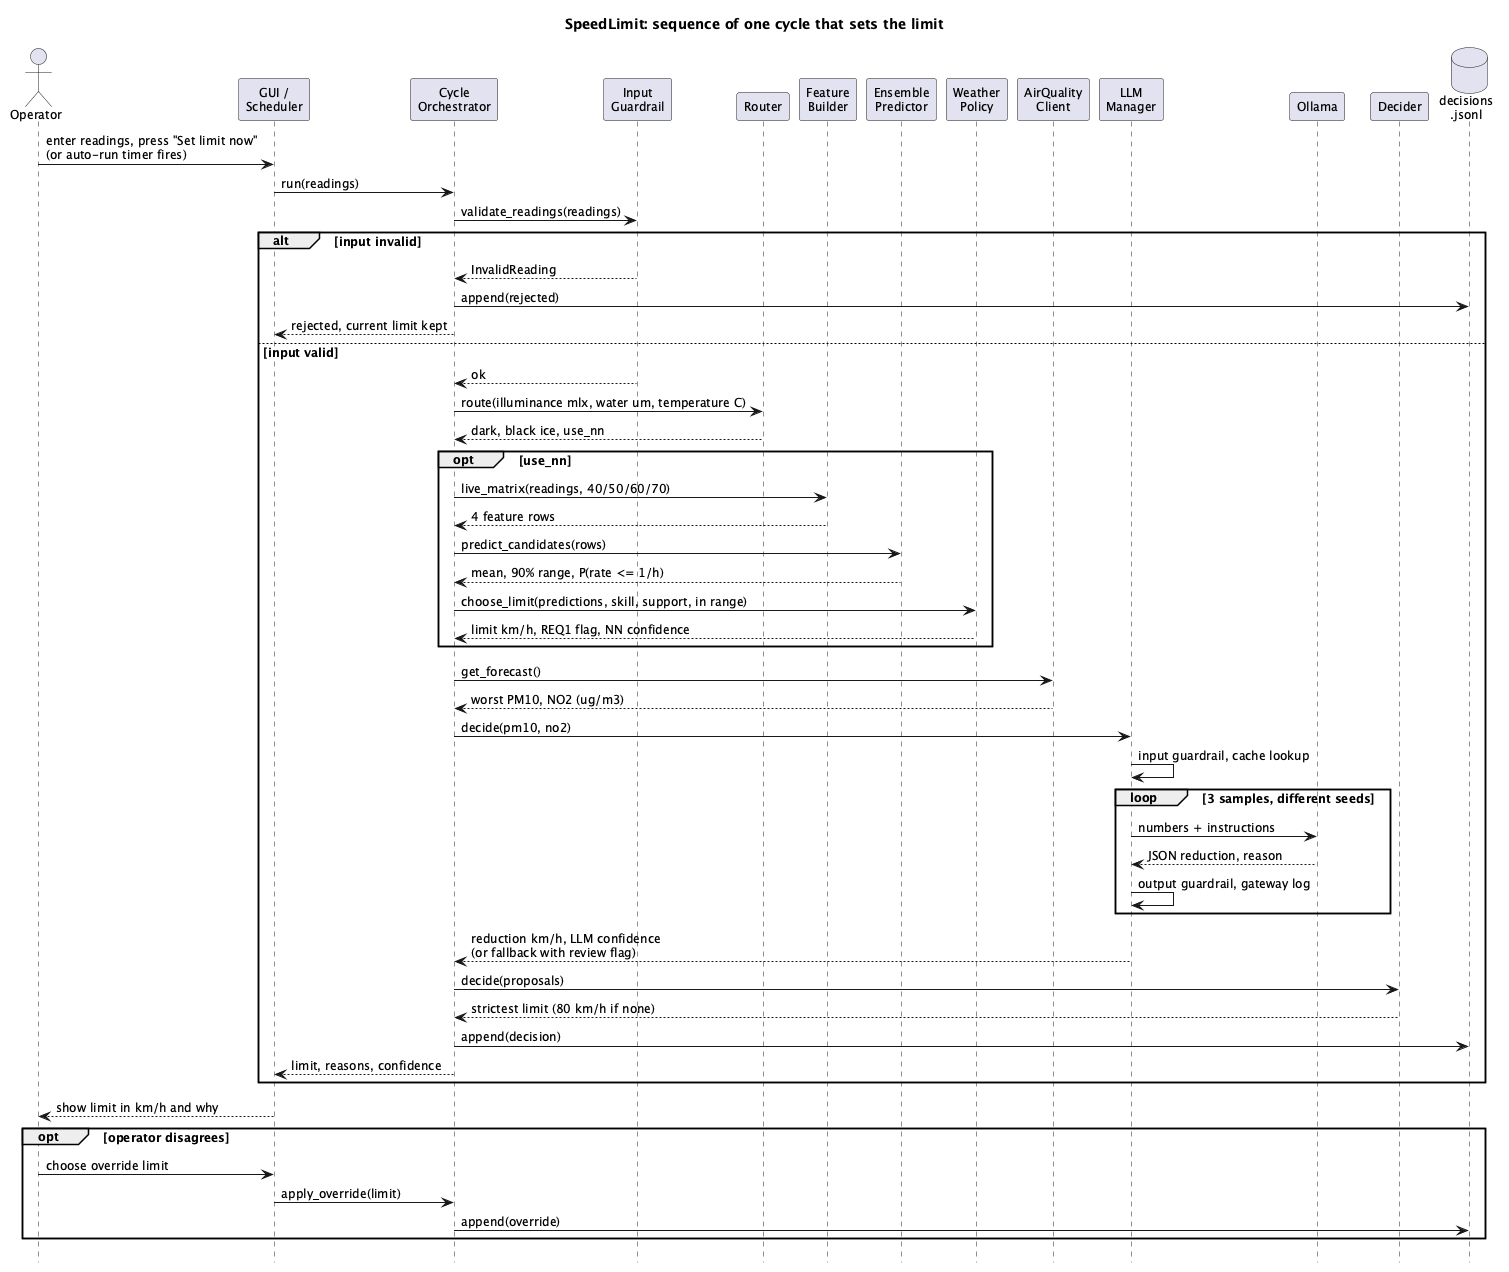
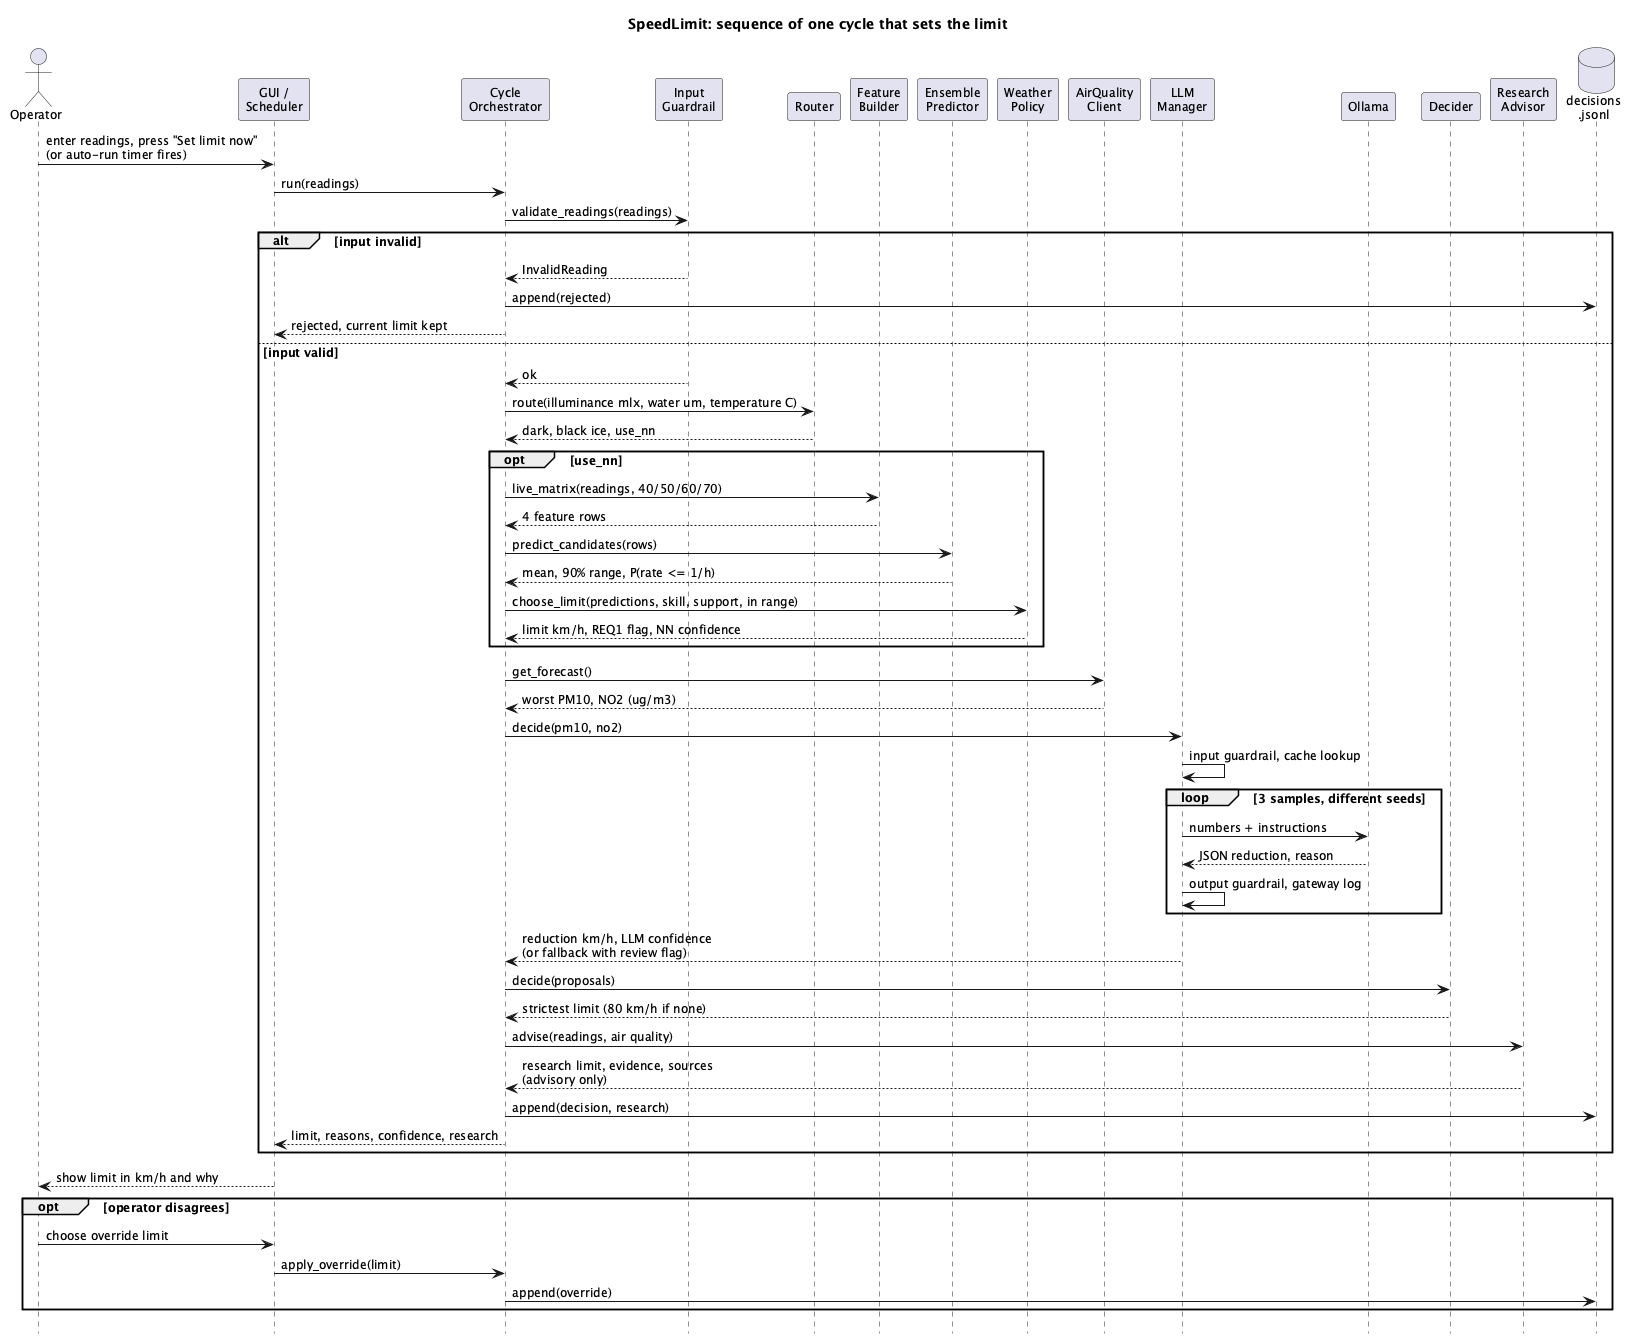
Show research panel tables cleanly and document the advisor
Two compact tables that fit beside the decision, the advisor added to the
data-flow, process and sequence diagrams, and its rules, evidence levels and
limits explained in ARCHITECTURE, HOW_TO_USE and CLAUDE.md.

diff --git a/app.py b/app.py
@@ -135,7 +135,7 @@ def show_result(result):
 
 
 def _pct(central, low, high) -> str:
-    return f"{central:+.1f} ({low:+.1f} to {high:+.1f})" if central else "0"
+    return f"{central:+.0f} ({low:+.0f} to {high:+.0f})" if central else "0"
 
 
 def show_research(result):
@@ -152,15 +152,20 @@ def show_research(result):
     show_confidence("Crash-effect evidence", advice.crash_evidence)
     if advice.air_evidence:
         show_confidence("Air-quality evidence", advice.air_evidence)
-    st.dataframe(pd.DataFrame([{
+    st.markdown(f"**Stopping within {advice.available_distance_m:g} m**")
+    st.table(pd.DataFrame([{
         "Limit (km/h)": c.limit_kmh,
-        "Stopping distance (m)": round(c.stopping_m, 1),
+        "Stopping distance (m)": f"{c.stopping_m:.1f}",
         "Stops in time": "yes" if c.fits else "no",
-        "Mean speed change (km/h)": round(c.mean_speed_change_kmh, 1),
+    } for c in advice.candidates]))
+    st.markdown("**Expected change against 80 km/h**")
+    st.table(pd.DataFrame([{
+        "Limit (km/h)": c.limit_kmh,
+        "Mean speed (km/h)": f"{c.mean_speed_change_kmh:+.1f}",
         "Injury crashes (%)": _pct(c.injury_pct, c.injury_low_pct, c.injury_high_pct),
         "Deaths (%)": _pct(c.killed_pct, c.killed_low_pct, c.killed_high_pct),
-    } for c in advice.candidates]), hide_index=True)
-    st.caption("Crash columns: change against 80 km/h, typical value with the published range.")
+    } for c in advice.candidates]))
+    st.caption("Typical value, with the published range in brackets. A calculation, not a measurement on this road.")
     for caveat in advice.caveats:
         st.caption(caveat)
     with st.expander("Sources"):

diff --git a/tests/test_app.py b/tests/test_app.py
@@ -142,9 +142,11 @@ def test_research_table_has_units(tmp_path):
     at = launch(tmp_path)
     set_day(at)
     press(at)
-    columns = " ".join(" ".join(map(str, frame.value.columns)) for frame in at.dataframe)
+    tables = [table.value for table in at.table]
+    columns = " ".join(" ".join(map(str, t.columns)) for t in tables)
     assert "Stopping distance (m)" in columns
     assert "Injury crashes (%)" in columns
+    assert "Limit (km/h)" in columns
 
 
 def test_research_panel_waits_for_a_decision(tmp_path):

diff --git a/docs/ARCHITECTURE.md b/docs/ARCHITECTURE.md
@@ -96,6 +96,7 @@ Accidents have no link to sensors. They are joined by day and hour only, which i
 | Candidates 40 to 70 km/h | 80 km/h never occurs in dark or black-ice hours, so asking about it would be pure extrapolation |
 | PyTorch | The network, the loss and the training loop are explicit and can be explained line by line |
 | Streamlit | The GUI is short Python, which suits an MVP. It is bound to localhost |
+| Research as explicit cited formulas | Outside knowledge stays visible, checkable and separate from what the system learned (section 10) |
 | Local Ollama (`qwen3:8b`) | Already installed, free, no account, and no data leaves the machine |
 | Open-Meteo | The assignment requires an API. It needs no account, and only fixed Vienna coordinates are sent |
 | Guardrails around both AI parts | The lecture is clear that AI output cannot go straight to the user. Output must be one of a small set of legal values |
@@ -174,6 +175,7 @@ The control experiment in `tests/test_model.py` shows that the same pipeline lea
 | Data fit for use | DataCleaner, DataValidator | `test_data.py`, `test_validation.py` |
 | Regular operation | CycleOrchestrator, GUI | `test_cycle.py`, `test_app.py` |
 | Confidence shown | ConfidenceRater, WeatherPolicy, LLMManager | `test_confidence.py`, `test_cycle.py` |
+| Research shown beside the decision | ResearchAdvisor | `test_research_advisor.py`, `test_cycle.py`, `test_app.py` |
 | Retraining decision | RetrainingAnalysis | `test_retraining.py` |
 | Allowed-to-use | All | `test_architecture.py` |
 
@@ -194,6 +196,41 @@ The control experiment in `tests/test_model.py` shows that the same pipeline lea
 | Some temperature sensors return Fahrenheit | Sensor mapping in `config.py` and a conversion in `data.py`; retrain if the training data changes | Only the cleaner knows raw units. Everything after it sees °C |
 | Only skidding counts as a near-accident | Call the labeler with `kinds=("SkidAngle",)`, then validate and retrain | The label definition is in one place |
 | Electric cars are exempt from air-quality limits | The Decider must return two limits, and the cycle, GUI and log must carry both, plus signs that can show two limits | The biggest change: "one limit for everyone" is an architectural assumption |
+
+## 10. What research suggests (advisory panel)
+
+Beside the system's decision, the GUI shows what published research suggests for the same conditions. It never sets the published limit. The evidence behind every number, with its read-status and conflicts, is in [the research report](../reports/Speed%20limit%20advisor%20evidence.md).
+
+**Why explicit formulas and not a second neural network.** A network trained on published figures would hide outside assumptions inside its weights and look as if it had learned them from this road. The synthetic data experiment showed where that leads. The advisor writes each assumption down as a named parameter in `core/config.py`, with its source.
+
+**How it decides**
+
+1. The surface comes from the same rules as the Router: black ice under SPEC2, wet if there is any water, otherwise dry.
+2. The available distance is 91 m in darkness (AAA 2015, halogen low beam, an upper bound) and 128 m in daylight (AASHTO stopping distance at 80 km/h, used as a proxy for the road's design).
+3. Stopping distance = reaction distance at 2.5 s + braking distance with friction 0.8 (dry), 0.7 (wet) or 0.15 (black ice), from VTI 911A.
+4. The suggestion is the highest allowed limit that stops within the available distance.
+5. For each limit, the expected change in injury crashes and deaths uses Elvik's Exponential Model (β 0.034 and 0.065), with one quarter of a posted cut reaching mean speed (Elvik et al. 2004). The range shown runs from the weakest published case (compliance 0.17) to the strongest (compliance 0.55 with the higher 2019 coefficients).
+
+| Conditions | Research suggests | Main reason |
+|---|---|---|
+| Daylight, dry or wet | 80 km/h | Stops well within the design distance |
+| Darkness, dry | 80 km/h | 87 m stopping distance fits within 91 m; darkness alone has the weakest evidence |
+| Darkness, wet | 70 km/h | 80 km/h needs 91.5 m |
+| Black ice, daylight | 50 km/h | 60 km/h needs 136 m against 128 m available |
+| Black ice, darkness | 40 km/h | 50 km/h needs 100 m against 91 m available |
+| Poor air quality alone | 80 km/h | No published evaluation of cuts below 80 km/h on a free-flowing road |
+
+**Evidence levels.** These are shown instead of a single confidence:
+
+| Part | High | Medium | Low |
+|---|---|---|---|
+| Stopping-distance check | Daylight on a dry or wet road | Black ice; darkness on a wet road | Darkness alone |
+| Crash-effect estimate | n/a | Suggested limit of 70 km/h | 60 km/h or lower, which is outside most studies |
+| Air quality | n/a | n/a | Always, when the EU limit is exceeded |
+
+When the suggestion is 80 km/h, the crash-effect estimate is shown as not applicable.
+
+**What it cannot do.** It does not predict near-accidents, because no published model links speed to them. So it cannot say whether REQ1 is met. Its crash figures are network-average calculations for free-flowing traffic, not forecasts for this road. The injury coefficient is disputed (0.034 or 0.06), and no compliance value has been published for advisory signs.
 
 ## Results
 

diff --git a/HOW_TO_USE.md b/HOW_TO_USE.md
@@ -82,6 +82,21 @@ The first answer for new air-quality values takes around 10 seconds, because the
 | LLM level | Based on how many of the 3 answers agreed. It shows consistency, not correctness |
 | No confidence | The LLM gave no usable answer and a fixed rule decided |
 
+### 4b. Compare with research
+
+The **Research suggests** column shows the limit published research would suggest for the same conditions. It never changes the published limit.
+
+| You see | Meaning |
+|---|---|
+| Published research | The highest limit that can stop within the distance a driver can see |
+| Stopping-distance evidence | How strong the evidence is for that check (High, Medium or Low, with reasons) |
+| Crash-effect evidence | How far the crash estimate can be trusted. It is Low below 70 km/h |
+| Stopping within … m | Stopping distance in m for each limit, and whether it fits |
+| Expected change against 80 km/h | Mean speed change in km/h and the change in injury crashes and deaths in %, with the published range in brackets |
+| Sources | The studies behind the numbers, with links |
+
+These figures are calculations from published studies, not measurements on this road, and they say nothing about near-accidents. The full evidence is in [the research report](reports/Speed%20limit%20advisor%20evidence.md).
+
 The explanation behind the levels is in [docs/ARCHITECTURE.md](docs/ARCHITECTURE.md).
 
 ### 5. Run on a timer
@@ -102,6 +117,8 @@ Pick a limit under **Operator override** and press **Apply override**. It is pub
 | Clear day, manual PM10 120 and NO₂ 250 µg/m³ | The LLM reduces the limit (50 km/h when tested) |
 | Icy night with that poor air | The strictest proposal wins |
 | Temperature 500 °C | Input rejected, the limit does not change |
+| Black ice in daylight | Research suggests 50 km/h beside the published 60 km/h |
+| Icy night | Research suggests 40 km/h |
 
 ## Run the stages yourself
 

diff --git a/CLAUDE.md b/CLAUDE.md
@@ -46,6 +46,10 @@ Setup: `uv venv --python 3.12 .venv`, then `uv pip install --python .venv/bin/py
 
 When no limit meets REQ1, the policy uses a fixed 60 km/h and requests operator review, even if another limit has a lower prediction. On the current data this applies to every dark or black-ice hour, so the network does not change the outcome. Do not go back to "lowest prediction": it chose 70 km/h for every such hour. See `docs/ARCHITECTURE.md`.
 
+## Research advisor
+
+`core/research_advisor.py` shows what published research suggests beside the decision. It is advisory and must never feed the Decider. Every parameter in its `config.py` section must trace to `reports/Speed limit advisor evidence.md`. Keep it as explicit formulas: do not train a network on research figures.
+
 ## Do not commit
 
 Lecture PDFs or the slide deck. Run logs in `artifacts/` are ignored by `.gitignore`.
